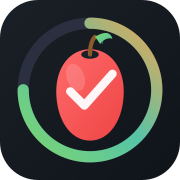
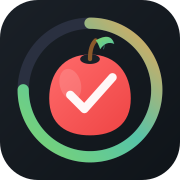
v1.16.0.2 - Fix apple shape to be rounder

Changed region(s): [[0.25, 0.1667, 0.75, 0.8056]]

diff --git a/index.html b/index.html
@@ -24,7 +24,7 @@
                 <h1 class="logo">
                     <span class="logo-icon">🥗</span>
                     <span class="logo-text">EasyDiet</span>
-                    <span class="version-tag" id="versionTag">v1.16.0.1</span>
+                    <span class="version-tag" id="versionTag">v1.16.0.2</span>
                 </h1>
                 <div class="header-actions">
                     <button class="help-btn" id="helpBtn" aria-label="Help">

diff --git a/sw.js b/sw.js
@@ -3,7 +3,7 @@
  * Provides offline functionality for the PWA
  */
 
-const CACHE_NAME = 'easydiet-1.16.0.1';
+const CACHE_NAME = 'easydiet-1.16.0.2';
 const STATIC_ASSETS = [
     '/',
     '/index.html',
